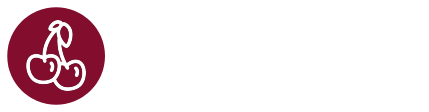
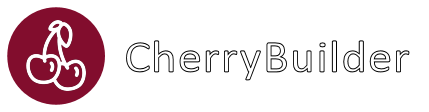
Changes on README.md

Changed region(s): [[0.2727, 0.3482, 0.9697, 0.7232]]

diff --git a/README.md b/README.md
@@ -1,2 +1,11 @@
-# CherryBuilder-Documentation
-Documentation/Issue tracker of CherryBuilder - The productivity extension for C++Builder®
+# CherryBuilder - Documentation
+
+This is the [documentation][Documentation] and [issue tracker](https://github.com/FlKo/CherryBuilder-Doc/issues) of
+ 
+![cherrybuilder_logo](img/cherrybuilder_text_429.png)
+
+The productivity extension for C++Builder®
+
+---
+
+## Documentation
